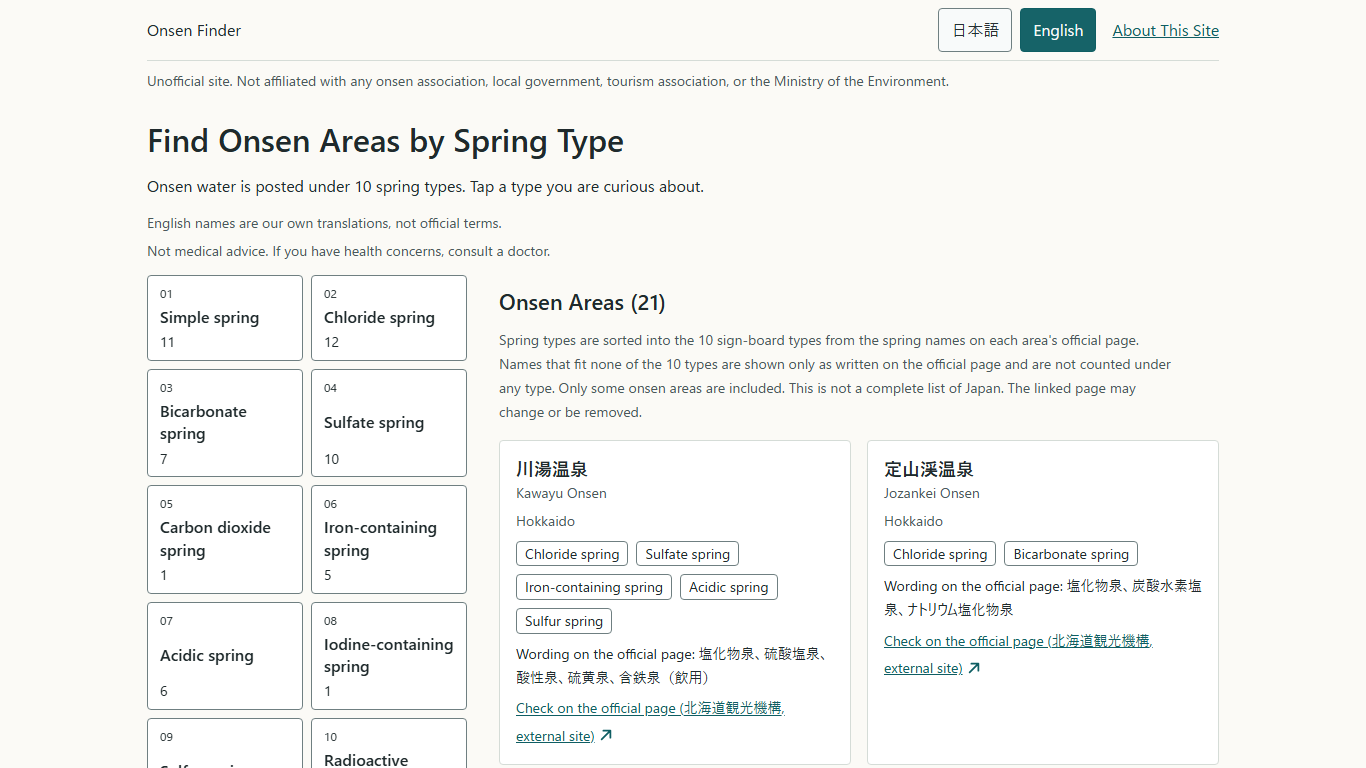
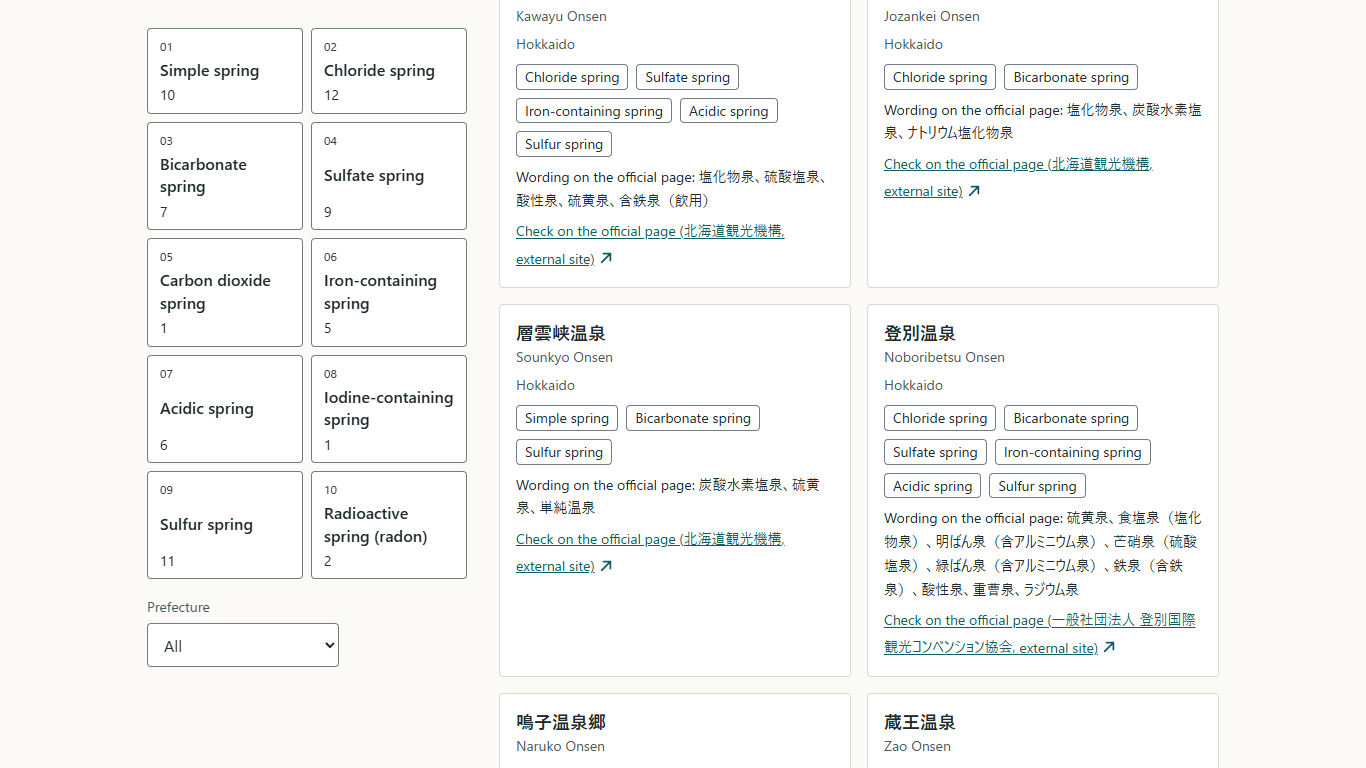
fix: PDL name and processing credit, Issues link, wording, counts (simple 10, sulfate 9), screenshots

diff --git a/src/i18n/en.js b/src/i18n/en.js
@@ -6,7 +6,7 @@ export default {
   "lang.ja": "日本語",
   "lang.en": "English",
   "home.h1": "Find Onsen Areas by Spring Type",
-  "home.lead": "Onsen water is posted under 10 spring types. Tap a type you are curious about.",
+  "home.lead": "Under the Ministry of the Environment's sign standard, spring water is grouped into 10 types. Tap a type you are curious about.",
   "skip": "Skip to Main Content",
 
   "type.heading": "Spring types (names used on onsen signs)",
@@ -45,12 +45,12 @@ export default {
   "filter.prefAll": "All",
   "filter.clear": "Clear Filters",
   "list.heading": "Onsen Areas ({n})",
-  "list.sourceNote": "Spring types are sorted into the 10 sign-board types from the spring names on each area's official page. Names that fit none of the 10 types are shown only as written on the official page and are not counted under any type. Only some onsen areas are included. This is not a complete list of Japan.",
+  "list.sourceNote": "Spring types are sorted into the 10 sign-board types from the spring names on each area's official page. Names that fit none of the 10 types are shown only as written on the official page and are not counted under any type. Only some onsen areas are included. This is not a complete list of onsen in Japan.",
   "card.officialName": "Wording on the official page: ",
   "card.link": "Check on the official page ({publisher}, external site)",
   "card.linkNote": "The linked page may change or be removed.",
   "empty.title": "No onsen areas match these filters in the current collection.",
-  "empty.note": "Only some onsen areas are included. This is not a complete list of Japan.",
+  "empty.note": "Only some onsen areas are included. This is not a complete list of onsen in Japan.",
   "loading": "Loading…",
   "error.load": "Could not load the data. Please reload the page.",
   "error.reload": "Reload",
@@ -64,7 +64,7 @@ export default {
   "notice.translationShort": "English names are our own translations, not official terms.",
   "notice.noMedicalShort": "Not medical advice. If you have health concerns, consult a doctor.",
   "notice.translation": "English names are our own translations. They are not official terms.",
-  "notice.processing": "Based on materials from the Ministry of the Environment, summarized and edited by the creator of this site. It is not produced by the Ministry.",
+  "notice.processing": "Ministry of the Environment materials are used under the Public Data License, version 1.0 (PDL 1.0). Created by processing \"Mineral Spring Analysis Guidelines (revised 2014)\" (Ministry of the Environment) (https://www.env.go.jp/nature/onsen/docs/shishin_bunseki.pdf) and the notice on \"Standards for posting contraindications and bathing or drinking precautions under Article 18, paragraph 1 of the Hot Springs Act\" (Ministry of the Environment) (https://www.env.go.jp/nature/onsen/pdf/2-5_p_11.pdf). Not produced by the Ministry.",
   "notice.noTracking": "No ads, bookings, ratings, prices, or user tracking.",
 
   "pref.hokkaido": "Hokkaido",
@@ -135,7 +135,8 @@ export default {
   "about.privacy.h": "No Ads or Tracking",
   "about.privacy.text": "This site makes no requests to external services. It uses no cookies or local storage.",
   "about.contact.h": "Contact",
-  "about.contact.text": "No contact details are published. Please report errors or problems through an Issue in the public repository (its URL will be set when the site is published).",
+  "about.contact.text": "No contact details are published. For errors or requests, use GitHub Issues.",
+  "about.contact.link": "(external site)",
   "about.license.h": "License and Copyright",
   "about.license.text": "The code of this site is under the MIT License. Copyright: © R38K51",
   "about.back": "Back to Finding by Spring Type",

diff --git a/src/i18n/ja.js b/src/i18n/ja.js
@@ -6,7 +6,7 @@ export default {
   "lang.ja": "日本語",
   "lang.en": "English",
   "home.h1": "湯の種類から、温泉地を探す",
-  "home.lead": "温泉の泉質（湯の種類）は10種類に分けて掲示されます。気になる種類を押してください。",
+  "home.lead": "温泉の掲示の基準（環境省の通知）では、泉質を10種類にまとめています。気になる種類を押してください。",
   "skip": "本文へ移動",
 
   "type.heading": "湯の種類（掲示用泉質名）",
@@ -64,7 +64,7 @@ export default {
   "notice.translationShort": "英語名はこのサイト独自の訳で、公的な表記ではありません。",
   "notice.noMedicalShort": "医療の助言ではありません。体調が気になるときは医師に相談してください。",
   "notice.translation": "英語名はこのサイト独自の訳で、公的な表記ではありません。",
-  "notice.processing": "環境省の資料をもとに、このサイトの制作者が要約し、加工しています。環境省が作成したものではありません。",
+  "notice.processing": "環境省の資料は、公共データ利用規約（第1.0版）に従って使っています。「鉱泉分析法指針（平成26年改訂）」（環境省）（https://www.env.go.jp/nature/onsen/docs/shishin_bunseki.pdf）、「温泉法第18条第1項の規定に基づく禁忌症及び入浴又は飲用上の注意の掲示等の基準」の通知（環境省）（https://www.env.go.jp/nature/onsen/pdf/2-5_p_11.pdf）を加工して作成。環境省が作成したものではありません。",
   "notice.noTracking": "広告、予約、評価、料金、利用者の追跡はありません。",
 
   "pref.hokkaido": "北海道",
@@ -135,7 +135,8 @@ export default {
   "about.privacy.h": "広告や追跡がないこと",
   "about.privacy.text": "このサイトは、外部のサービスへ通信しません。Cookie や保存領域も使いません。",
   "about.contact.h": "連絡先",
-  "about.contact.text": "連絡先は公開していません。誤りや不具合は、公開リポジトリの Issue で知らせてください（リポジトリの URL は公開時に決めます）。",
+  "about.contact.text": "連絡先は公開していません。誤りや要望は GitHub の Issues へ。",
+  "about.contact.link": "（外部サイト）",
   "about.license.h": "ライセンスと著作権表示",
   "about.license.text": "このサイトのコードは MIT ライセンスです。著作権表示：© R38K51",
   "about.back": "湯の種類から探す画面へ戻る",

diff --git a/src/render.js b/src/render.js
@@ -11,6 +11,7 @@ const MOE_REFS = [
   { key: "guideline", url: "https://www.env.go.jp/nature/onsen/docs/shishin_bunseki.pdf" },
   { key: "notice", url: "https://www.env.go.jp/nature/onsen/pdf/2-5_p_11.pdf" },
 ];
+const ISSUES_URL = "https://github.com/R38K51/onsen-guide/issues";
 
 export function el(tag, props = {}, ...children) {
   const node = document.createElement(tag);
@@ -337,7 +338,11 @@ export function createAboutView(status, data, formatDate) {
     section("about.data.h", ...dataBlock),
     section("about.translation.h", el("p", { class: "measure", text: t("notice.translation") }), el("p", { class: "measure", text: t("notice.processing") })),
     section("about.privacy.h", el("p", { class: "measure", text: t("notice.noTracking") }), el("p", { class: "measure", text: t("about.privacy.text") })),
-    section("about.contact.h", el("p", { class: "measure", text: t("about.contact.text") })),
+    section(
+      "about.contact.h",
+      el("p", { class: "measure", text: t("about.contact.text") }),
+      el("p", {}, externalLink(ISSUES_URL, "ref-link", ISSUES_URL, " ", t("about.contact.link"))),
+    ),
     section("about.license.h", el("p", { class: "measure", text: t("about.license.text") })),
     el("p", {}, el("a", { class: "link-control", href: buildHash({ route: "home", lang }), text: t("about.back") })),
   );

diff --git a/README.md b/README.md
@@ -26,7 +26,7 @@
 > [!NOTE]
 > This is an unofficial site made by an individual. It is not affiliated with the Japan Onsen Association, the Ministry of the Environment, local governments, tourism associations, or lodgings. The classification is based on Ministry of the Environment documents, summarized and edited by this site. The Ministry did not make this site.
 >
-> Tested only with the Chromium bundled with Playwright 1.64.1 (automated tests, 390 px and 1366 px wide screens). Not tested on real phones, other browsers, or other operating systems.
+> Tested only with the Chromium bundled with Playwright 1.64.1 (automated tests, screen widths of 390, 768, 1366 and 1920 px). Not tested on real phones, other browsers, or other operating systems.
 
 ### Features
 
@@ -62,7 +62,7 @@ npm run test:e2e    # browser tests (Playwright)
 
 - **Does it send my data anywhere?** The page loads only its own files. It does not call other sites and has no analytics. Links to official pages open only when you click them, and those sites have their own policies. The browser tests found no requests to other sites.
 - **Privacy.** The site is hosted on GitHub Pages. GitHub records the IP address of visitors under its own policy. The site itself keeps nothing.
-- Only some onsen areas are included (21 at the time of writing). This is not a complete list of Japan.
+- Only some onsen areas are included (21 at the time of writing). This is not a complete list of onsen in Japan.
 - Some spring types have few areas listed. For example, "Carbon dioxide spring" and "Iodine-containing spring" have one each.
 - Spring types follow each area's official page and the Ministry of the Environment classification tables. Please check signs and official pages at the place. Linked pages may change or disappear.
 
@@ -70,7 +70,7 @@ npm run test:e2e    # browser tests (Playwright)
 
 - `data/classification.json` (spring-type classification) was made from the Ministry of the Environment's "Guidelines for Mineral Spring Analysis" (revised 2014, 鉱泉分析法指針) and the notice on the signs required by Article 18 of the Hot Springs Act. Both are linked on the site's About screen.
 - `data/onsen.json` (onsen areas) copies the spring-type names from the official pages of tourism associations and local governments, word for word. Each entry has its source URL and the date we checked it.
-- The Ministry of the Environment materials are used under the Government of Japan Standard Terms of Use (PDL 1.0), with the source shown. The content was processed and edited by this site. It was not made by the Ministry of the Environment.
+- The Ministry of the Environment materials are used under the Public Data License, version 1.0 (PDL 1.0). Created by processing "Mineral Spring Analysis Guidelines (revised 2014)" (Ministry of the Environment) (https://www.env.go.jp/nature/onsen/docs/shishin_bunseki.pdf) and the notice on "Standards for posting contraindications and bathing or drinking precautions under Article 18, paragraph 1 of the Hot Springs Act" (Ministry of the Environment) (https://www.env.go.jp/nature/onsen/pdf/2-5_p_11.pdf). It was not made by the Ministry of the Environment.
 
 ### License
 
@@ -85,7 +85,7 @@ MIT. See [LICENSE](LICENSE). The MIT license covers only this site's code. The r
 > [!NOTE]
 > これは個人が作った非公式のサイトです。日本温泉協会、環境省、自治体、観光協会、宿泊施設とは関係がありません。泉質の分類は環境省の資料をもとに、このサイトで要約・編集したものです。環境省が作ったものではありません。
 >
-> 確かめた環境は、Playwright 1.64.1 に付属の Chromium だけです（自動テスト、画面の幅390pxと1366px）。実際のスマホ、ほかのブラウザ、ほかのOSでは確かめていません。
+> 確かめた環境は、Playwright 1.64.1 に付属の Chromium だけです（自動テスト、画面の幅390、768、1366、1920px）。実際のスマホ、ほかのブラウザ、ほかのOSでは確かめていません。
 
 ### 特徴
 
@@ -129,7 +129,7 @@ npm run test:e2e    # ブラウザのテスト（Playwright）
 
 - `data/classification.json`（湯の種類の分類）は、環境省の「鉱泉分析法指針（平成26年改訂）」と、温泉法第18条の掲示の基準についての通知をもとに作りました。2つとも、サイトの「このサイトについて」の画面にリンクがあります。
 - `data/onsen.json`（温泉地）は、各観光協会・自治体の公式ページにある泉質名を、原文のまま写したものです。1件ごとに、出典のURLと確認日があります。
-- 環境省の資料は、政府標準利用規約（PDL1.0）に基づき、出典を示して使っています。内容は、このサイトで加工して作成したもので、環境省が作成したものではありません。
+- 環境省の資料は、公共データ利用規約（第1.0版）に従って使っています。「鉱泉分析法指針（平成26年改訂）」（環境省）（https://www.env.go.jp/nature/onsen/docs/shishin_bunseki.pdf）、「温泉法第18条第1項の規定に基づく禁忌症及び入浴又は飲用上の注意の掲示等の基準」の通知（環境省）（https://www.env.go.jp/nature/onsen/pdf/2-5_p_11.pdf）を加工して作成。環境省が作成したものではありません。
 
 ### ライセンス
 
